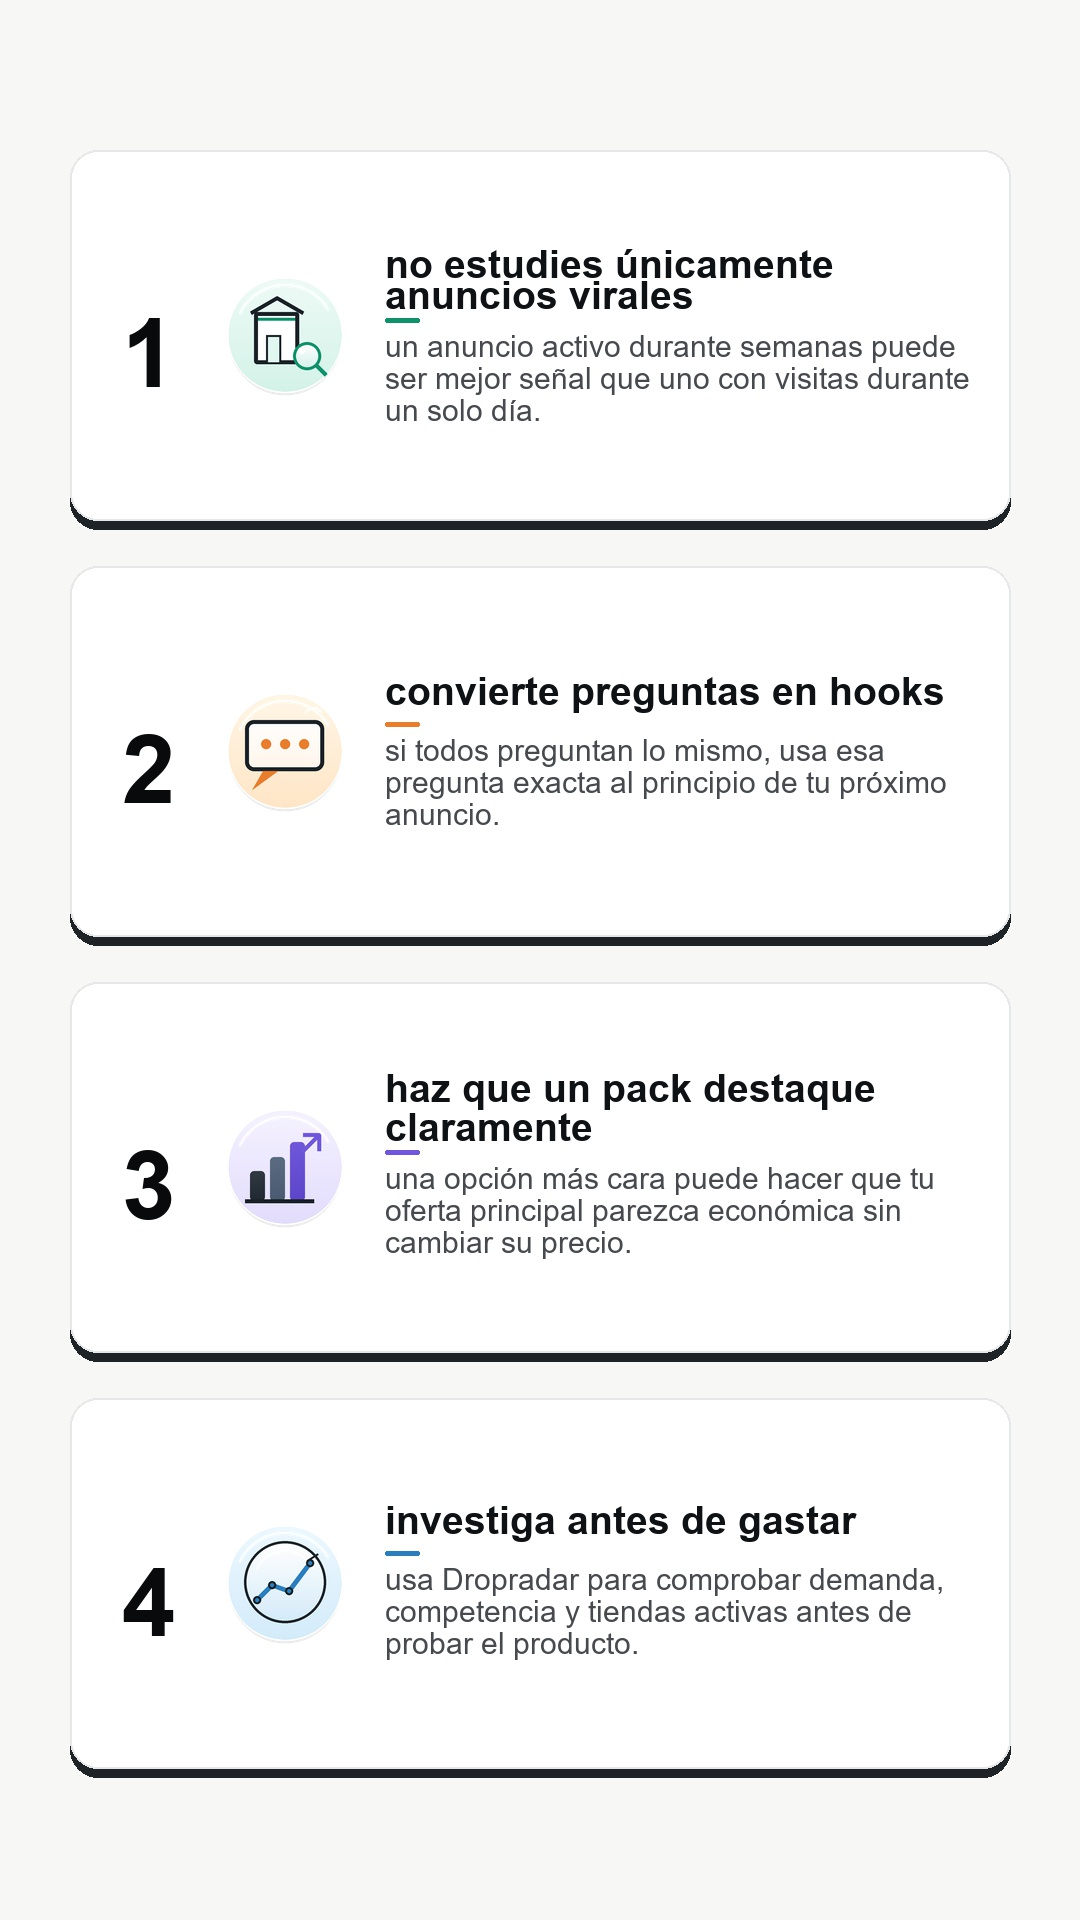
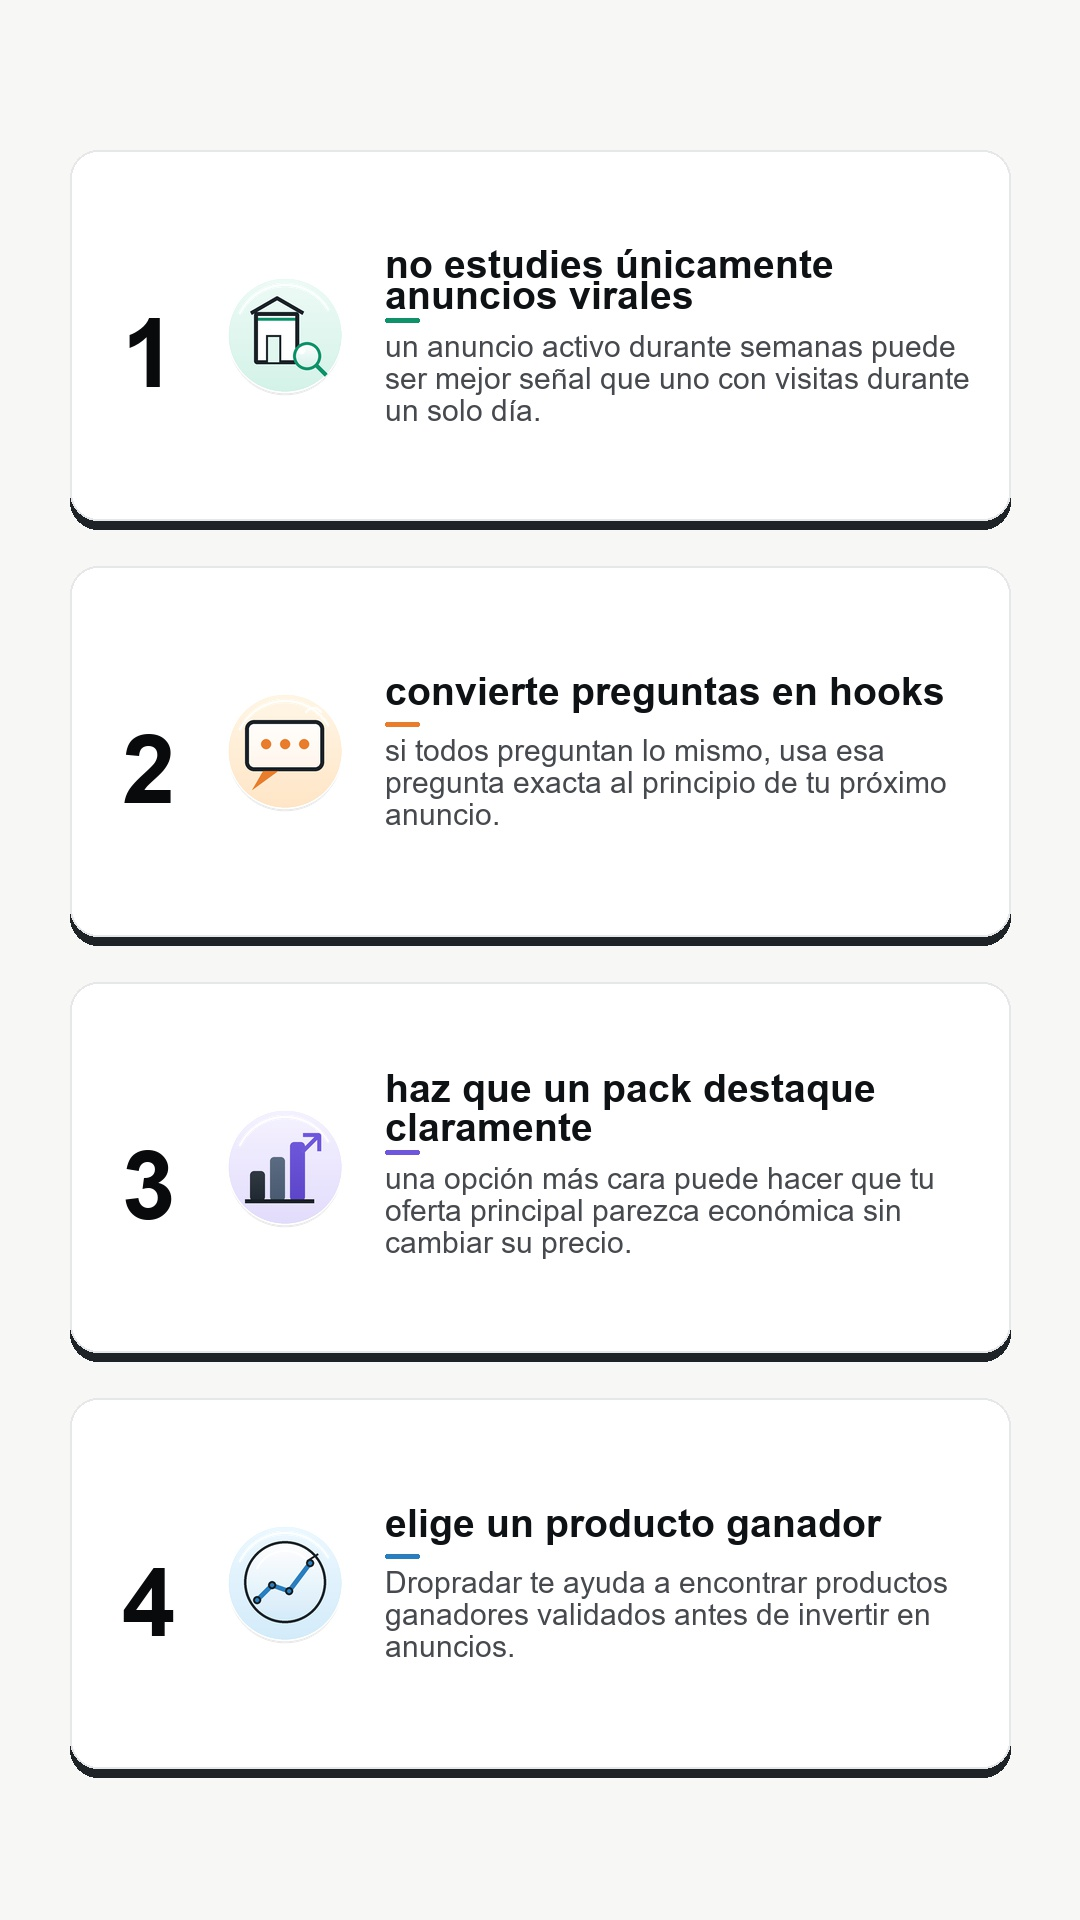
c

Changed region(s): [[0.3361, 0.7812, 0.8861, 0.875]]

diff --git a/app/advice_cards.py b/app/advice_cards.py
@@ -44,9 +44,9 @@ ADVICE_PACKS: dict[Language, tuple[tuple[AdviceTip, ...], ...]] = {
                 "entender el anuncio.",
             ),
             AdviceTip(
-                "analiza antes de lanzar",
-                "usa Dropradar para descubrir qué productos crecen, quién los vende "
-                "y cómo los promocionan.",
+                "encuentra ganadores antes de lanzar",
+                "usa Dropradar para encontrar productos ganadores ya validados y "
+                "empezar con una oportunidad mucho más segura.",
             ),
         ),
         (
@@ -65,9 +65,9 @@ ADVICE_PACKS: dict[Language, tuple[tuple[AdviceTip, ...], ...]] = {
                 "más atractiva.",
             ),
             AdviceTip(
-                "comprueba la competencia primero",
-                "con Dropradar puedes analizar otras tiendas y evitar productos "
-                "completamente saturados.",
+                "deja de elegir productos a ciegas",
+                "Dropradar encuentra productos ganadores validados para que empieces "
+                "con una oportunidad más segura.",
             ),
         ),
         (
@@ -87,9 +87,9 @@ ADVICE_PACKS: dict[Language, tuple[tuple[AdviceTip, ...], ...]] = {
                 "ha convertido en ventas.",
             ),
             AdviceTip(
-                "investiga las tiendas activas",
-                "usa Dropradar para encontrar competidores y entender cómo presentan "
-                "el producto antes de probarlo.",
+                "encuentra productos que ya venden",
+                "usa Dropradar para detectar productos ganadores antes de perder "
+                "tiempo copiando a otras tiendas.",
             ),
         ),
         (
@@ -109,9 +109,9 @@ ADVICE_PACKS: dict[Language, tuple[tuple[AdviceTip, ...], ...]] = {
                 "económica sin cambiar su precio.",
             ),
             AdviceTip(
-                "investiga antes de gastar",
-                "usa Dropradar para comprobar demanda, competencia y tiendas activas "
-                "antes de probar el producto.",
+                "elige un producto ganador",
+                "Dropradar te ayuda a encontrar productos ganadores validados antes "
+                "de invertir en anuncios.",
             ),
         ),
     ),
@@ -133,9 +133,9 @@ ADVICE_PACKS: dict[Language, tuple[tuple[AdviceTip, ...], ...]] = {
                 "understanding the ad.",
             ),
             AdviceTip(
-                "analyse before you launch",
-                "use Dropradar to find growing products, active stores and the angles "
-                "they use to promote them.",
+                "find winners before launching",
+                "use Dropradar to find validated winning products and start with a "
+                "much safer opportunity.",
             ),
         ),
         (
@@ -154,9 +154,9 @@ ADVICE_PACKS: dict[Language, tuple[tuple[AdviceTip, ...], ...]] = {
                 "attractive.",
             ),
             AdviceTip(
-                "check the competition first",
-                "with Dropradar you can study other stores and avoid completely "
-                "saturated products.",
+                "stop picking products blindly",
+                "Dropradar finds validated winning products so you can start with a "
+                "stronger opportunity.",
             ),
         ),
         (
@@ -176,9 +176,9 @@ ADVICE_PACKS: dict[Language, tuple[tuple[AdviceTip, ...], ...]] = {
                 "not become sales yet.",
             ),
             AdviceTip(
-                "research active stores",
-                "use Dropradar to find competitors and understand their product angle "
-                "before testing yours.",
+                "find products already selling",
+                "use Dropradar to spot validated winners before wasting time copying "
+                "other stores.",
             ),
         ),
         (
@@ -198,9 +198,9 @@ ADVICE_PACKS: dict[Language, tuple[tuple[AdviceTip, ...], ...]] = {
                 "without changing its price.",
             ),
             AdviceTip(
-                "research before you spend",
-                "use Dropradar to check demand, competitors and active stores before "
-                "testing the wrong product.",
+                "choose a validated winner",
+                "Dropradar helps you find validated winning products before you spend "
+                "on ads.",
             ),
         ),
     ),
@@ -260,9 +260,15 @@ def validate_advice_content() -> None:
         for tips in packs:
             if len(tips) != 4:
                 raise ValueError("Cada guion tipo 4 debe contener exactamente 4 consejos.")
-            if "dropradar" not in tips[-1].body.lower():
+            final_body = tips[-1].body.lower()
+            if "dropradar" not in final_body:
                 raise ValueError(
                     f"El cuarto consejo tipo 4 en {language.value} debe nombrar Dropradar."
+                )
+            if not any(term in final_body for term in ("ganador", "winner", "winning")):
+                raise ValueError(
+                    f"El cuarto consejo tipo 4 en {language.value} debe presentar "
+                    "Dropradar como herramienta de productos ganadores."
                 )
 
 

diff --git a/tests/test_advice_cards.py b/tests/test_advice_cards.py
@@ -9,13 +9,15 @@ from app.advice_cards import (
 from app.models import Language
 
 
-def test_advice_packs_are_bilingual_and_always_finish_with_dropradar():
+def test_advice_packs_are_bilingual_and_promote_dropradar_winning_products():
     assert len(ADVICE_PACKS[Language.ES]) == 4
     assert len(ADVICE_PACKS[Language.EN]) == 4
     for packs in ADVICE_PACKS.values():
         for tips in packs:
             assert len(tips) == 4
-            assert "dropradar" in tips[-1].body.lower()
+            final_body = tips[-1].body.lower()
+            assert "dropradar" in final_body
+            assert any(term in final_body for term in ("ganador", "winner", "winning"))
 
 
 def test_advice_backgrounds_and_scripts_complete_twelve_step_rotation():
